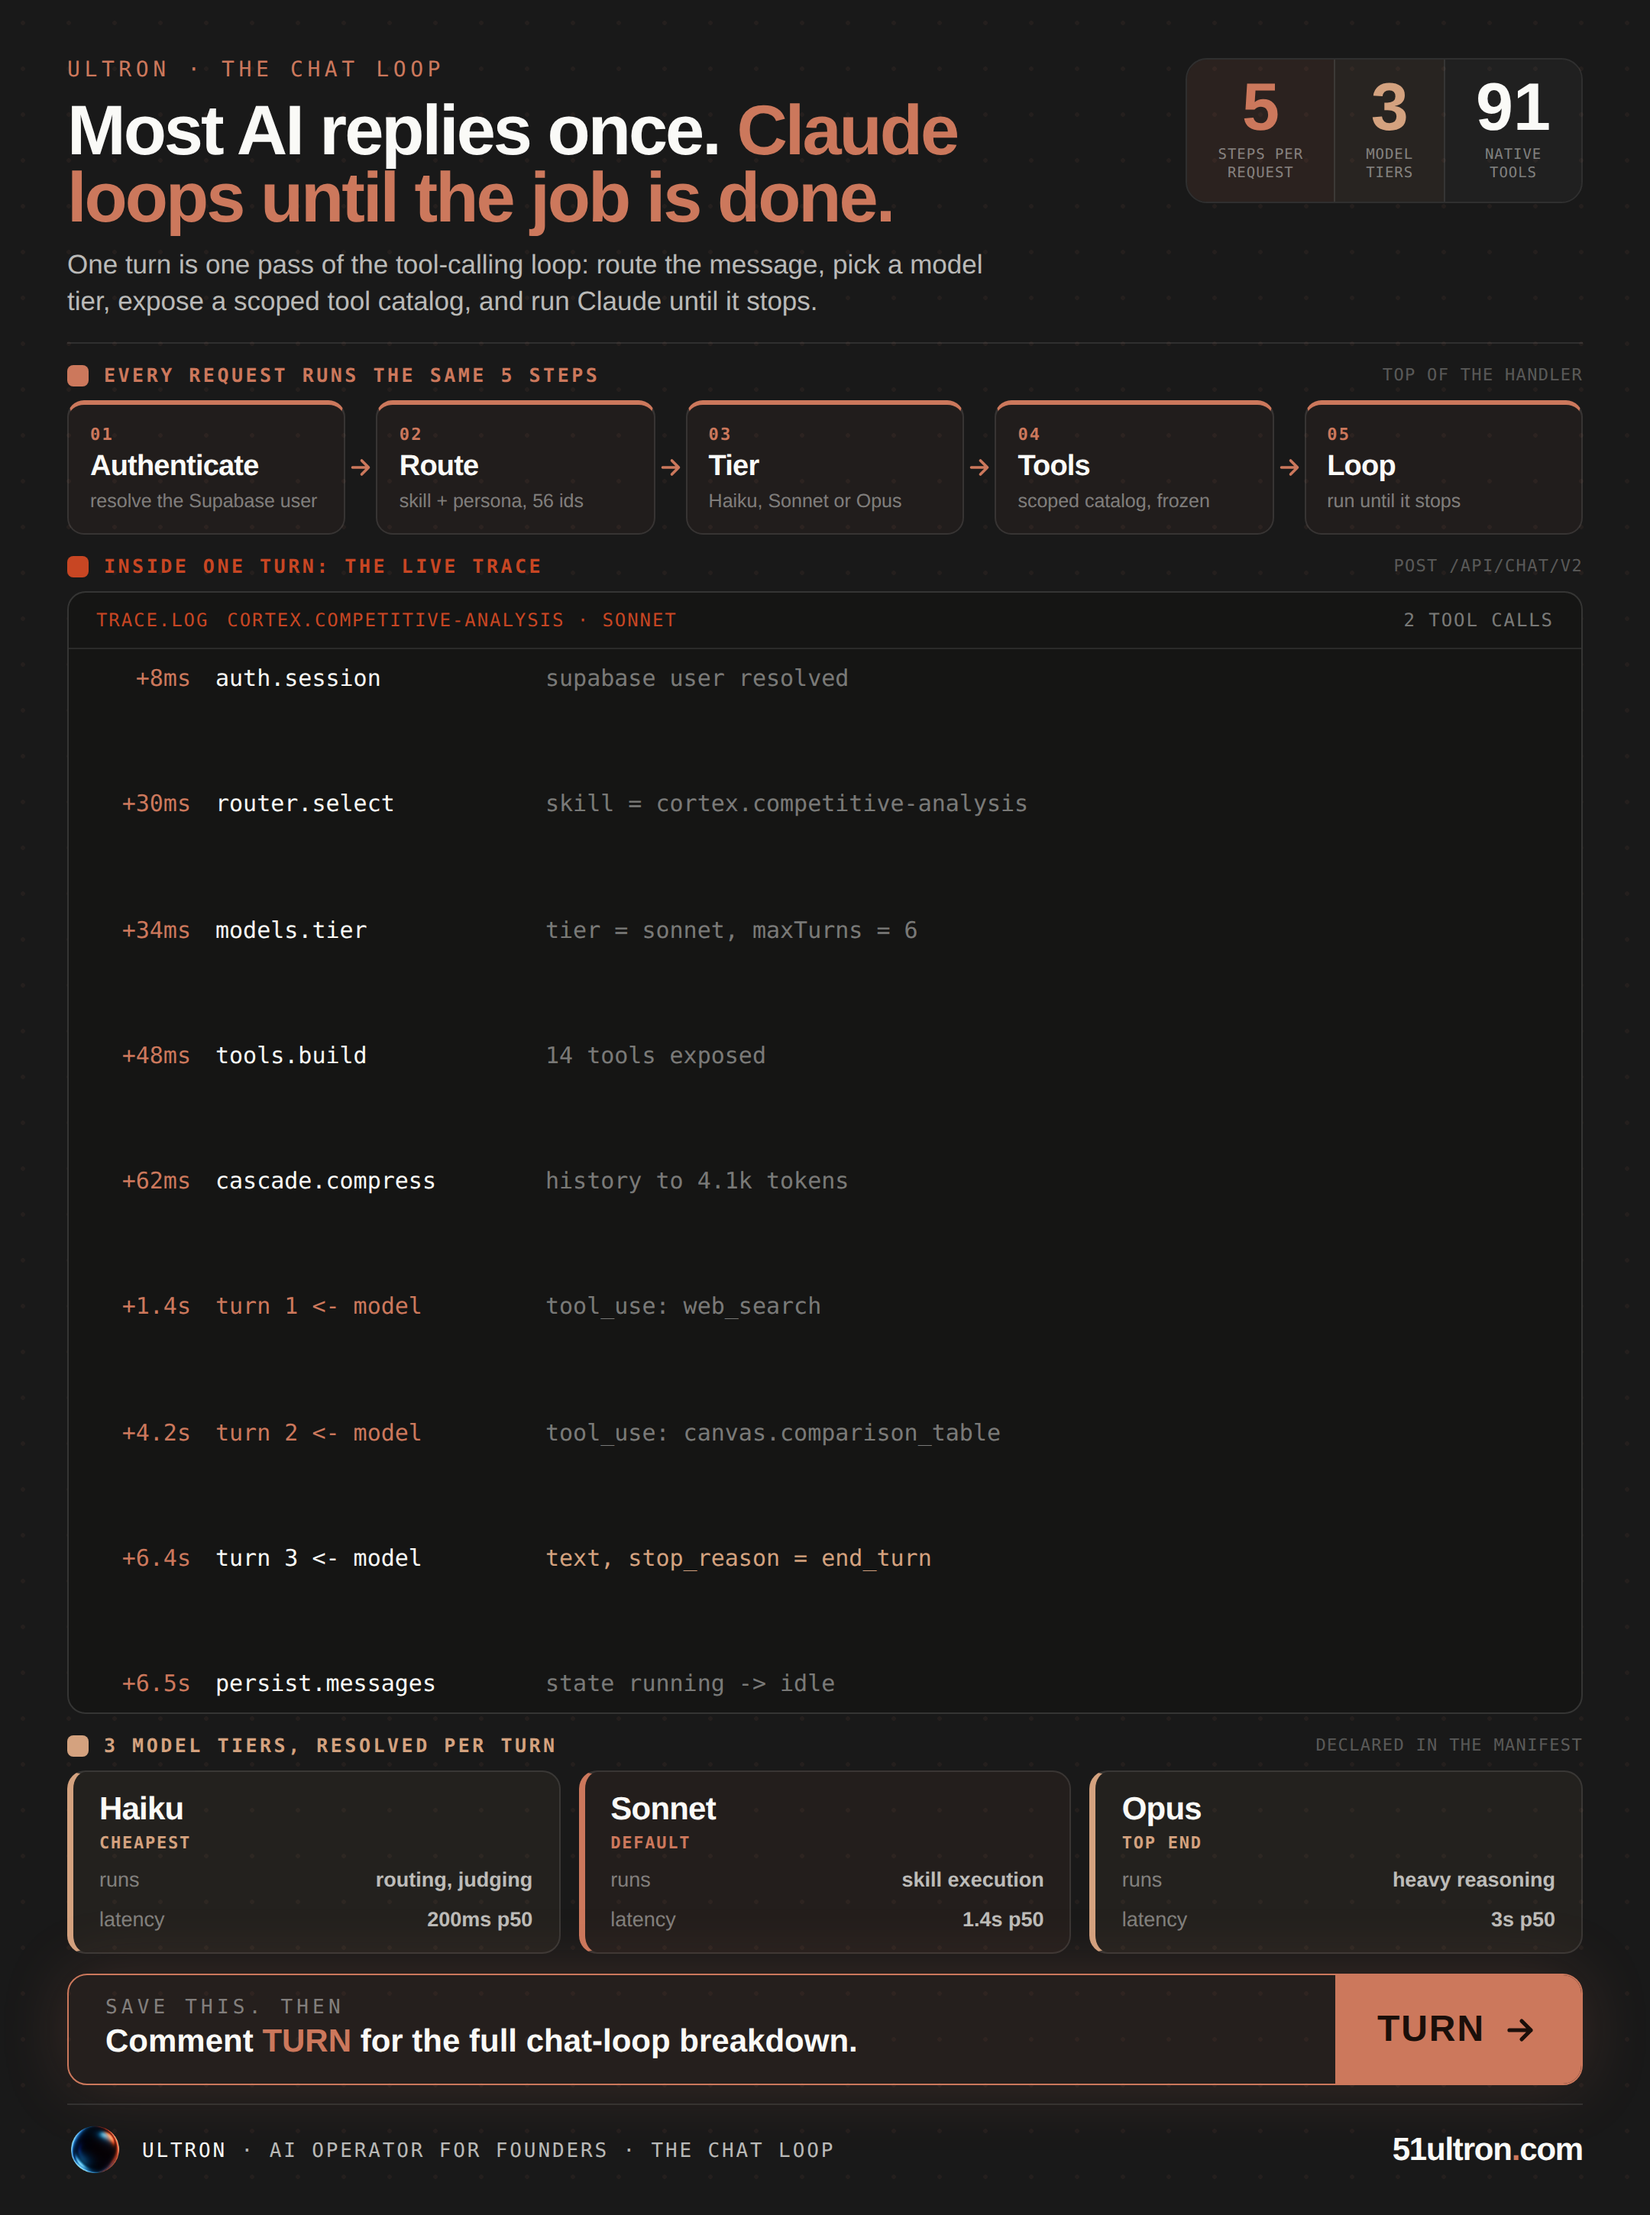
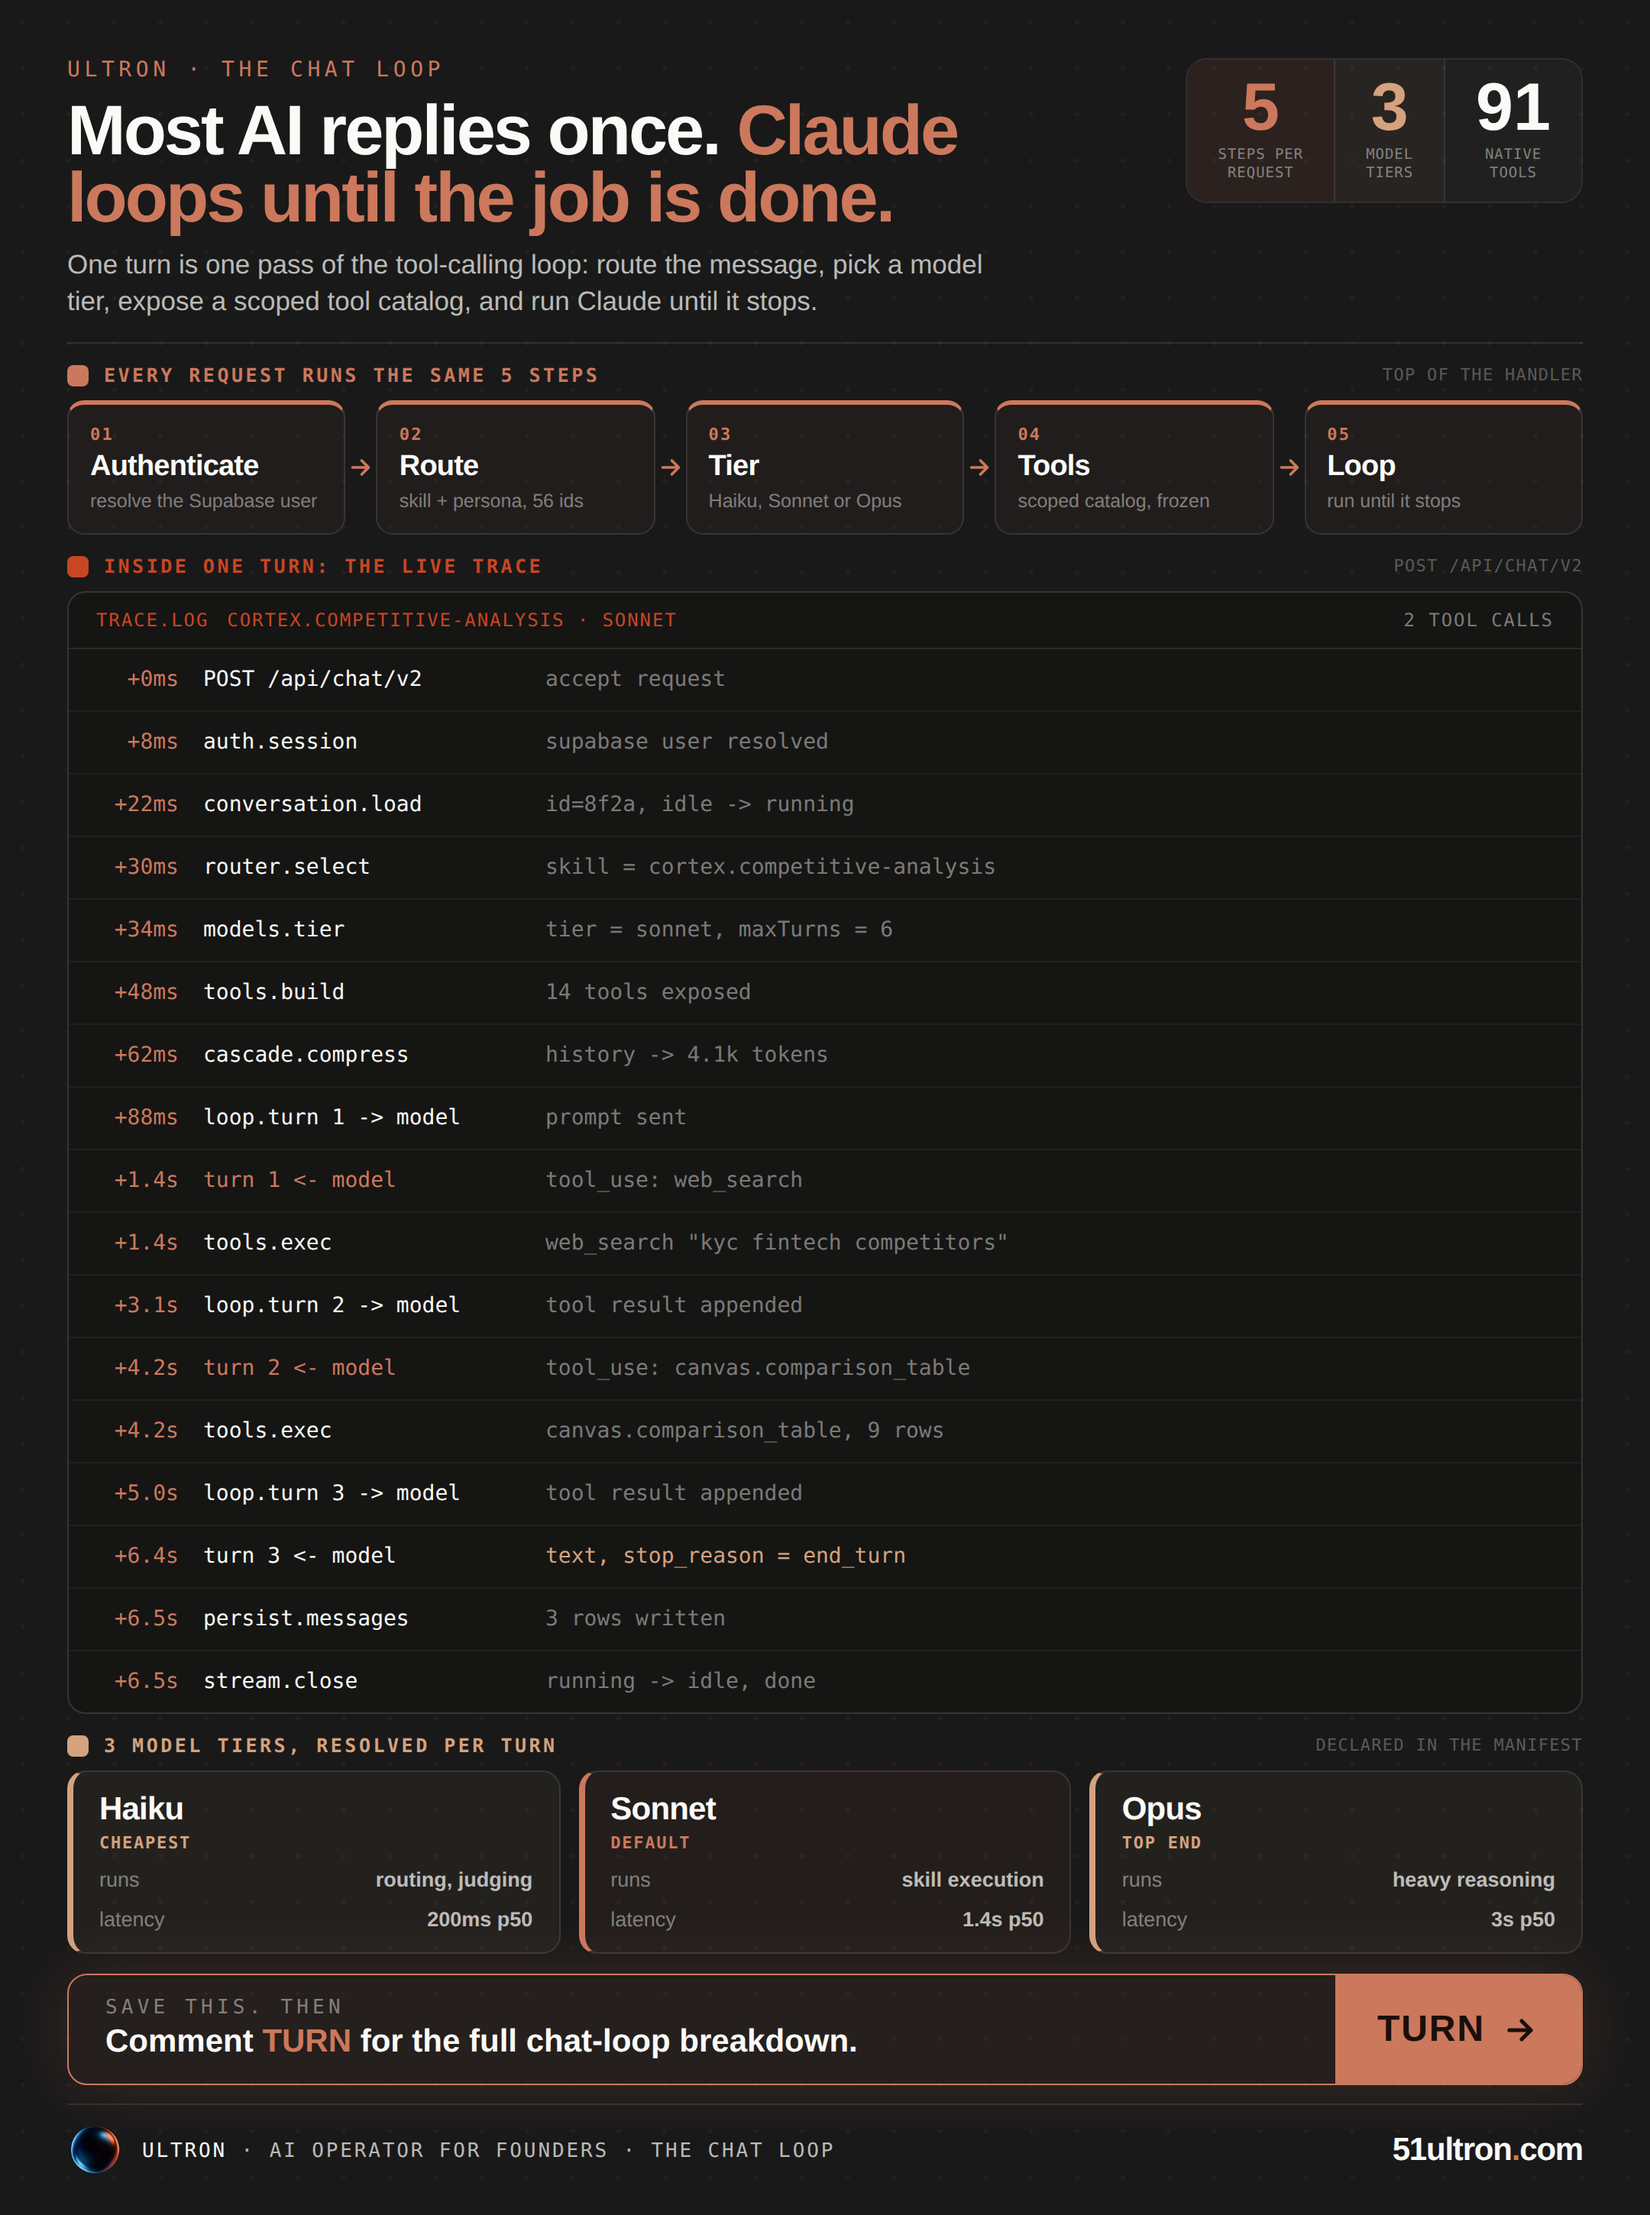
content+config: docs-11 LinkedIn - make the central trace DENSE; record density as a hard rule
The central trace.log read airy and weak (9 rows spread with space-between). Packed
it with the full ~17-line execution trace, tight rows with dividers, filling the
section like a real terminal log - heavy, scannable, no gaps. Recorded the lesson
in CLAUDE.md 27 as binding rules 9 (dominant element must be dense/heavy, never
space-between on sparse rows) and 10 (vary treatments + palette per section; TikTok
is a visual scene, not a table) so it is retained.

diff --git a/content/docs-11-turn-linkedin.html b/content/docs-11-turn-linkedin.html
@@ -33,10 +33,11 @@ body{background:#0d0d0d;display:flex;justify-content:center;padding:24px 0;font-
 .trace{flex:1;min-height:0;display:flex;flex-direction:column;border:1px solid var(--ink14);border-radius:12px;overflow:hidden;background:#151514;}
 .trh{flex-shrink:0;display:flex;align-items:center;gap:12px;padding:11px 18px;border-bottom:1px solid var(--rule);font-family:'DM Mono',monospace;font-size:12px;letter-spacing:.08em;text-transform:uppercase;color:var(--book-d);}
 .trh .d{margin-left:auto;color:var(--ink46);}
-.trb{flex:1;min-height:0;padding:10px 18px;display:flex;flex-direction:column;justify-content:space-between;font-family:'DM Mono',monospace;font-size:15px;}
-.trow{display:flex;align-items:center;gap:16px;white-space:nowrap;}
-.trow .t{color:var(--book);font-weight:500;width:62px;flex-shrink:0;text-align:right;}
-.trow .e{color:var(--ivory);font-weight:500;width:200px;flex-shrink:0;}
+.trb{flex:1;min-height:0;display:flex;flex-direction:column;font-family:'DM Mono',monospace;font-size:14px;}
+.trow{flex:1;display:flex;align-items:center;gap:16px;white-space:nowrap;padding:0 18px;}
+.trow+.trow{border-top:1px solid rgba(250,250,247,.05);}
+.trow .t{color:var(--book);font-weight:500;width:54px;flex-shrink:0;text-align:right;}
+.trow .e{color:var(--ivory);font-weight:500;width:208px;flex-shrink:0;}
 .trow .v{color:var(--ink46);overflow:hidden;text-overflow:ellipsis;}
 .trow.hi .e{color:var(--book);}.trow.ok .v{color:var(--kraft);}
 /* tiers */
@@ -77,15 +78,23 @@ body{background:#0d0d0d;display:flex;justify-content:center;padding:24px 0;font-
 <div class="trace">
 <div class="trh"><span>trace.log</span><span>cortex.competitive-analysis &middot; sonnet</span><span class="d">2 tool calls</span></div>
 <div class="trb">
+<div class="trow"><span class="t">+0ms</span><span class="e">POST /api/chat/v2</span><span class="v">accept request</span></div>
 <div class="trow"><span class="t">+8ms</span><span class="e">auth.session</span><span class="v">supabase user resolved</span></div>
+<div class="trow"><span class="t">+22ms</span><span class="e">conversation.load</span><span class="v">id=8f2a, idle -&gt; running</span></div>
 <div class="trow"><span class="t">+30ms</span><span class="e">router.select</span><span class="v">skill = cortex.competitive-analysis</span></div>
 <div class="trow"><span class="t">+34ms</span><span class="e">models.tier</span><span class="v">tier = sonnet, maxTurns = 6</span></div>
 <div class="trow"><span class="t">+48ms</span><span class="e">tools.build</span><span class="v">14 tools exposed</span></div>
-<div class="trow"><span class="t">+62ms</span><span class="e">cascade.compress</span><span class="v">history to 4.1k tokens</span></div>
+<div class="trow"><span class="t">+62ms</span><span class="e">cascade.compress</span><span class="v">history -&gt; 4.1k tokens</span></div>
+<div class="trow"><span class="t">+88ms</span><span class="e">loop.turn 1 -&gt; model</span><span class="v">prompt sent</span></div>
 <div class="trow hi"><span class="t">+1.4s</span><span class="e">turn 1 &lt;- model</span><span class="v">tool_use: web_search</span></div>
+<div class="trow"><span class="t">+1.4s</span><span class="e">tools.exec</span><span class="v">web_search "kyc fintech competitors"</span></div>
+<div class="trow"><span class="t">+3.1s</span><span class="e">loop.turn 2 -&gt; model</span><span class="v">tool result appended</span></div>
 <div class="trow hi"><span class="t">+4.2s</span><span class="e">turn 2 &lt;- model</span><span class="v">tool_use: canvas.comparison_table</span></div>
+<div class="trow"><span class="t">+4.2s</span><span class="e">tools.exec</span><span class="v">canvas.comparison_table, 9 rows</span></div>
+<div class="trow"><span class="t">+5.0s</span><span class="e">loop.turn 3 -&gt; model</span><span class="v">tool result appended</span></div>
 <div class="trow ok"><span class="t">+6.4s</span><span class="e">turn 3 &lt;- model</span><span class="v">text, stop_reason = end_turn</span></div>
-<div class="trow"><span class="t">+6.5s</span><span class="e">persist.messages</span><span class="v">state running -&gt; idle</span></div>
+<div class="trow"><span class="t">+6.5s</span><span class="e">persist.messages</span><span class="v">3 rows written</span></div>
+<div class="trow"><span class="t">+6.5s</span><span class="e">stream.close</span><span class="v">running -&gt; idle, done</span></div>
 </div>
 </div>
 <div class="sec s3"><span class="sq"></span><span class="sl">3 model tiers, resolved per turn</span><span class="sx">declared in the manifest</span></div>

diff --git a/CLAUDE.md b/CLAUDE.md
@@ -987,8 +987,10 @@ Before any push to LinkedIn / IG / repo:
 6. **Scannability** — people scan before they read. Short paragraphs, bold headers, visual rhythm, clean structure.
 7. **Recognizable branding** — consistent colors / type / layout / tone. (LinkedIn = Dark Ultron; TikTok = the reference glass format, per operator.)
 8. **One clear CTA** — "Save this", "Repost", or "Comment [KEYWORD]". One, not five.
+9. **DENSITY — the dominant element must be HEAVY (operator HARD rule, repeated 2026-06-10):** the central block (table / trace / chart / list) must be packed with real, weighty content - every row filled, tight, visually heavy, edge to edge. **NEVER spread sparse rows with `justify-content:space-between`** - it creates airy, skippable gaps. This is THE recurring rejection ("tabelul central e slab si aerisit, te face sa dai skip"). If a block looks airy: pull MORE real rows/columns from the docs, enlarge the content, or pack tighter - never distribute thin content across empty space. Every row carries real data (numbers, names, values, log lines). "Fiecare mm trebuie sa se zbata sa fie acolo."
+10. **Vary every material - nothing standard or linear (operator, repeated):** each material is bespoke. Within one LinkedIn infographic use DIFFERENT treatments per section (e.g. table / pipeline / cards) + a different palette accent per section (book / book-dark / kraft) + one focal element. Never three identical stacked tables. TikTok is NOT a dry table - use a visual scene/mockup (e.g. chat-session mockup), CTA styled to that scene.
 
-**Pre-publish gate (6 questions):** easy to scan? · idea immediately useful? · title clear? · visually structured? · would people save it? · would someone repost it?
+**Pre-publish gate (7 questions):** easy to scan? · idea immediately useful? · title clear? · visually structured? · **is the central block dense and heavy, with no airy gaps?** · would people save it? · would someone repost it?
 
 ---
 
